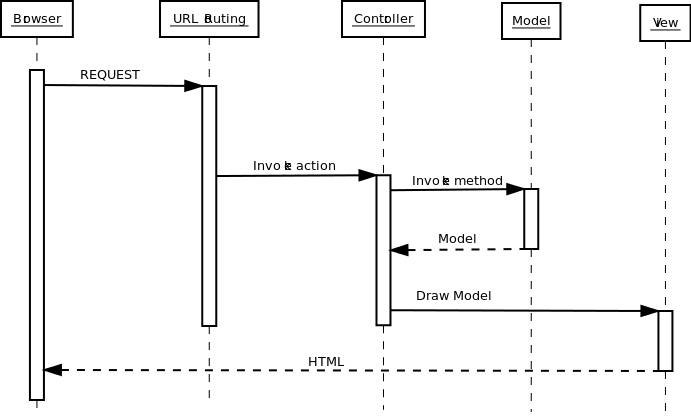
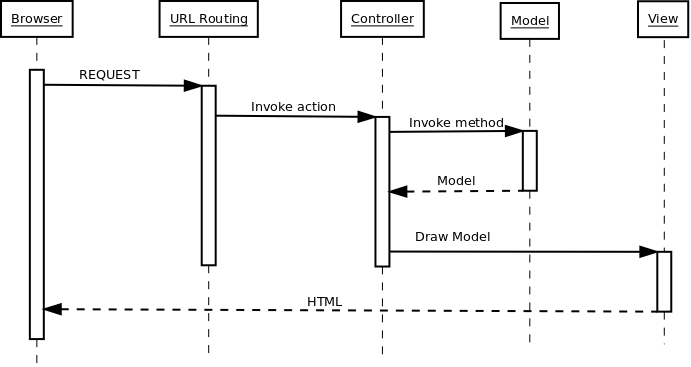
EAD

diff --git a/docs/deliverables/ead/Emergent Architectural Design.tex b/docs/deliverables/ead/Emergent Architectural Design.tex
@@ -60,37 +60,40 @@
 			To broaden their knowledge and expand their experience, the developers agreed to use programming languages and frameworks previously unknown to them.
 	\clearpage
 	\section{Architecture}
+	
+			\subsection{Overview}
+				
 			
 			\subsection{Server}
 				The server subsystems consist of two key parts: the server back end and the database, this can be seen in figure 1. The server keeps an up-to-date copy of the database and sychronises with the client side when possible. In the future it could be used to do calculations that are too complicated for the client-side of the application (calculations are deemed too complicated when they take a notable amount of time to complete).
-				The database is used for storage of user data, modules for cell design, as well as cell models created using the application. It provides a centralised storage, so users can share their modelled cells and can access their data anywhere. However the client-side application can function on any platform without a persistent internet connection.	\\
+				The database is used for storage of user data, modules for cell design, as well as cell models created using the application. It provides a centralised storage, so users can share their modelled cells and can access their data anywhere. However the client-side application can function on any platform without a persistent internet connection.
+				\clearpage
 				\begin{figure}[htb]
 				\begin{center}
-				\includegraphics[scale=0.50]{EAD.png}
+				\includegraphics[scale=0.95]{EAD.png}
 				\caption{Deployment Diagram}
 				\label{fig: EAD}
 				\end{center}
 				\end{figure}
-				\newpage
+				\clearpage
 									
 				\subsubsection{Rails}
 					The server runs on Ruby on Rails \footnote{http://api.rubyonrails.org/} . This is a fairly new but very stable platform that is not only free but also open source. This means active development by a lot of people. Problems are easily fixed and this should ease the use of the application that is being designed. The language itself is written from a standpoint where you should just be able to write code and not worry about breaking the interpreter \footnote{www.artima.com/intv/rubyP.html} . This makes it easy to write comprehensible code that executes complex tasks.				
 				\subsubsection{MVC}
-					The pages served are HTML5 for markup with CSS3 for styling and Javascript for interaction. Pages are built by a comprehensive and solid Model-Viewer-Controller system. This keeps data separated from the representation, further increasing maintainability. Interaction is illustrated in figure 2. Because interaction and data are separated, change of the data through interaction can easily be stored and reversed providing the undo-functionality as per the design goals.\\
-				\begin{figure}[htb]
+					The pages served are HTML5 for markup with CSS3 for styling and Javascript for interaction. Pages are built by a comprehensive and solid Model-Viewer-Controller system. This keeps data separated from the representation, further increasing maintainability. Interaction is illustrated in figure 2. Because interaction and data are separated, change of the data through interaction can easily be stored and reversed providing the undo-functionality as per the design goals.			
+				\subsubsection{Models and Database}
+					Ruby models are mapped to any Relational Database Management System (RDMS \footnote{http://en.wikipedia.org/wiki/Relational\_database\_management\_system} ) such as SQLite, MySQL and PostgreSQL. By not restricting the server database technology, switching systems, servers or extending  their capacity should be fairly simple and easy.
+				\subsubsection{Views and ERB} 
+					The views are in ERB \footnote{http://ruby-doc.org/stdlib-2.0/libdoc/erb/rdoc/ERB.html} which is an HTML template system. It comes with the Rails framework, so it does not require any extra software. Rails controllers written in Ruby can expose data to these views. New views are easily added this way, so new ways of data representation are quickly devised.
+			\clearpage
+			\begin{figure}[htb]
 				\begin{center}
-				\includegraphics[scale=0.50]{SequenceDiagramLife.png}
+				\includegraphics[scale=0.4]{SequenceDiagramLife.png}
 				\caption{Sequence Diagram}
 				\label{fig: SequenceDiagram}
 				\end{center}
 				\end{figure}	
-					 				 
-				\subsubsection{Models and Database}
-					Ruby models are mapped to any Relational Database Management System (RDMS \footnote{http://en.wikipedia.org/wiki/Relational\_database\_management\_system} ) such as SQLite, MySQL and PostgreSQL. By not restricting the server database technology, switching systems, servers or extending  their capacity should be fairly simple and easy.
-					\newpage
-				\subsubsection{Views and ERB} 
-					The views are in ERB \footnote{http://ruby-doc.org/stdlib-2.0/libdoc/erb/rdoc/ERB.html} which is an HTML template system. It comes with the Rails framework, so it does not require any extra software. Rails controllers written in Ruby can expose data to these views. New views are easily added this way, so new ways of data representation are quickly devised.
-			\newpage
+			\clearpage
 
 			\subsection{Client}
 				The client-side subsystems contain most of the applications functionality. These subsystems are responsible for displaying the graphical environment with all its modules, as well as solving the basic equations.  The client-side subsystems functions independently of the server. Local storage is used as temporary storage when there is no connection to the server. Only the sharing of data and generating reports of cells and their simulation is then not available.
